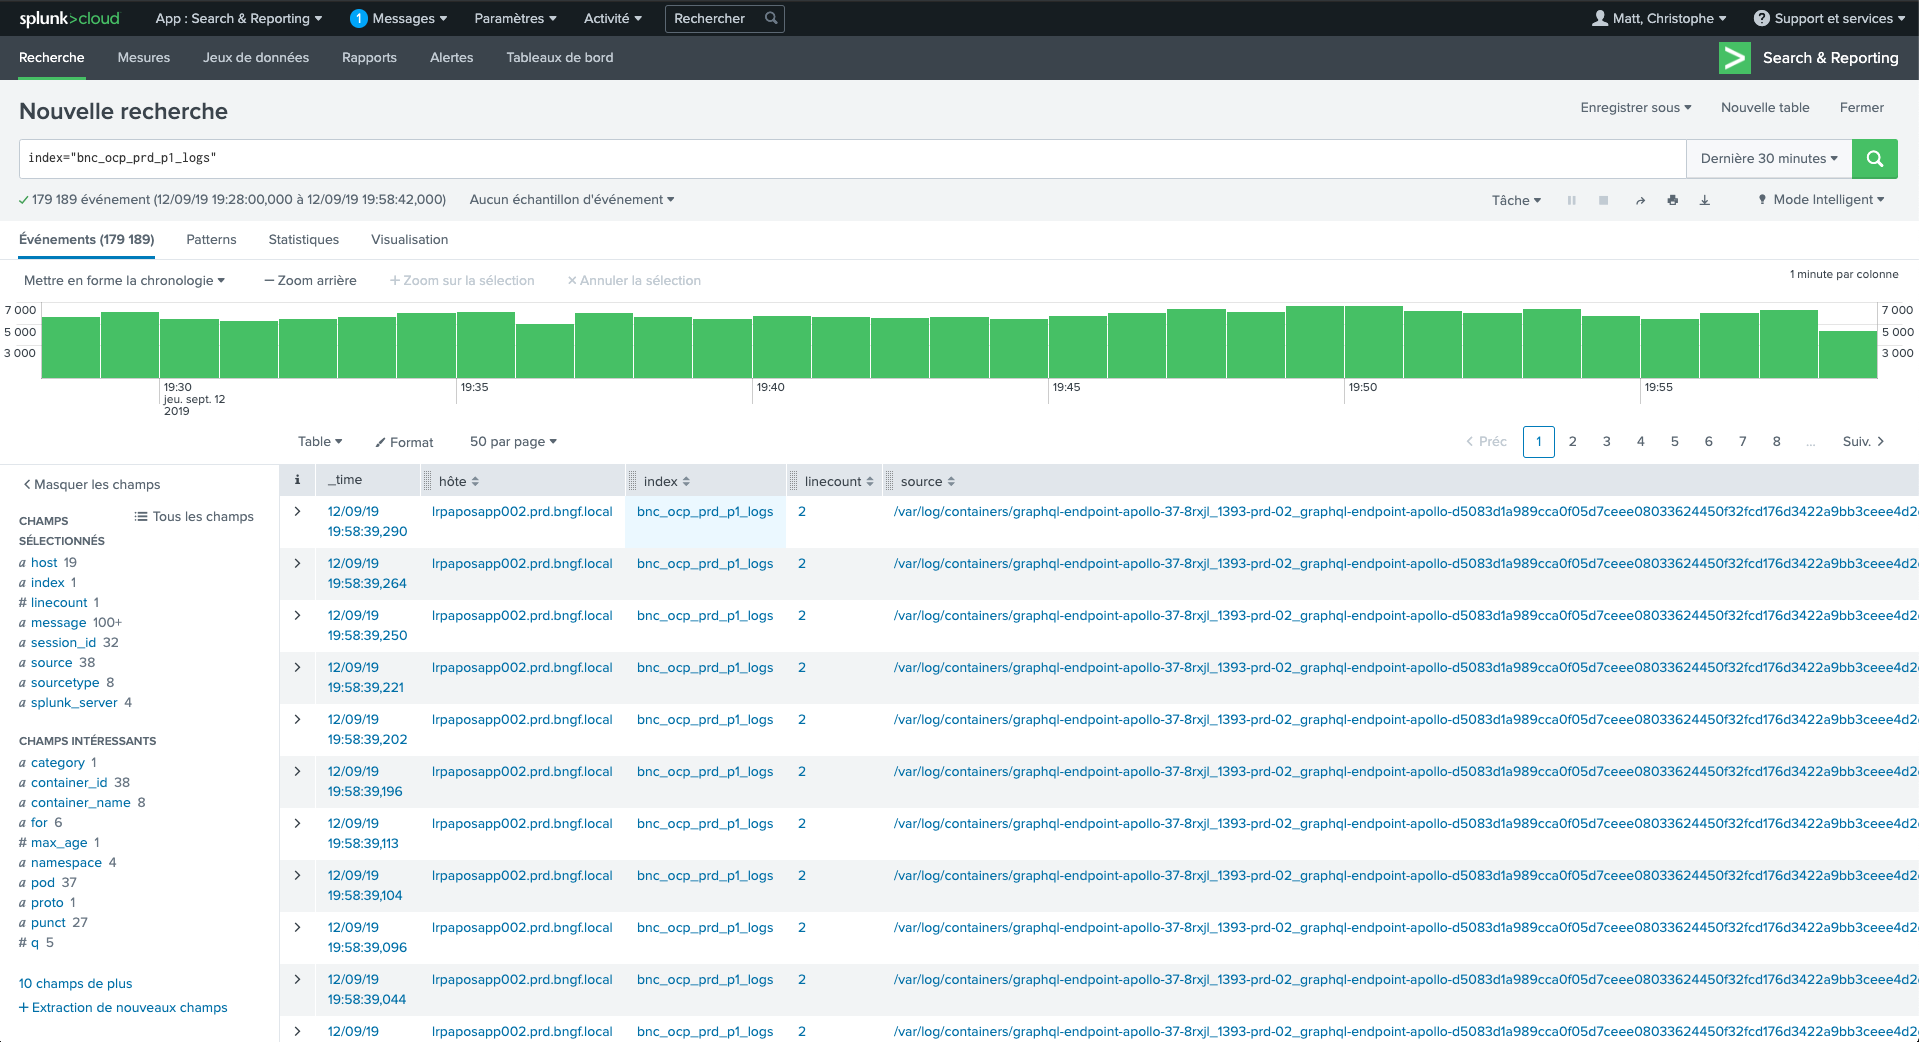
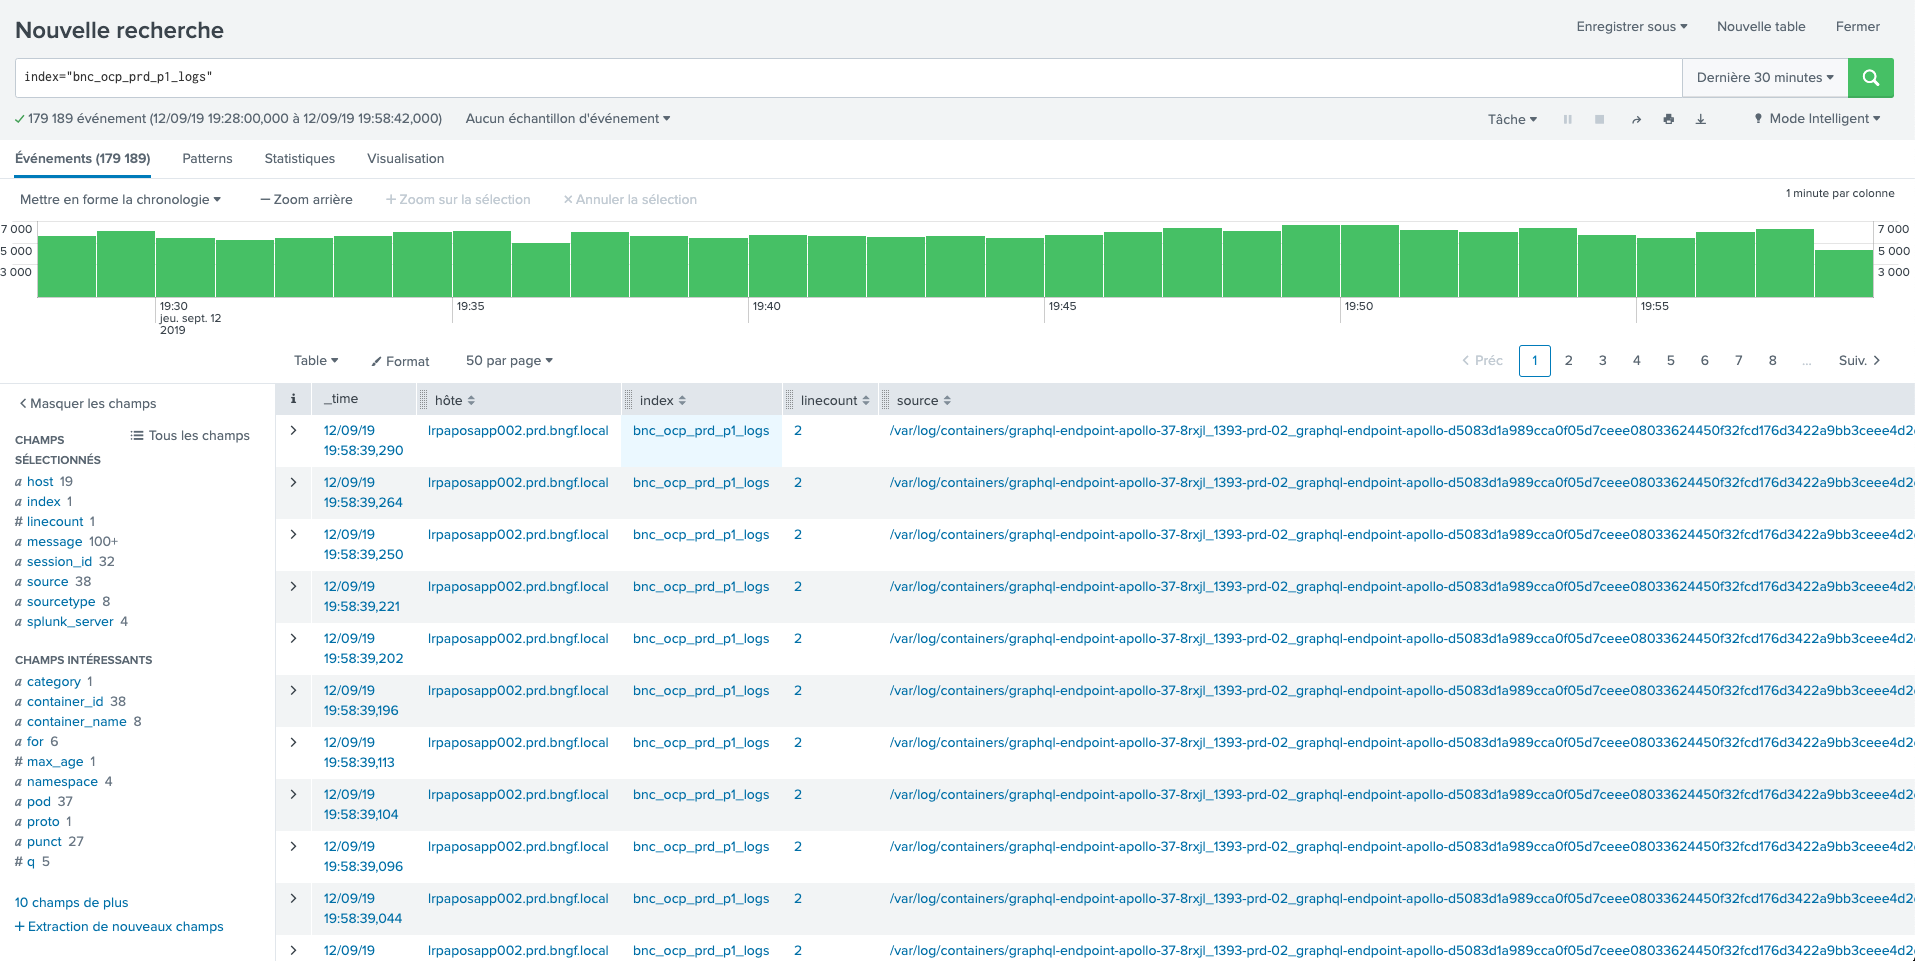
logs

diff --git a/index.html b/index.html
@@ -53,11 +53,17 @@
 						<div class=footer>
 							<div>
 								Christian Gosselin <br />
-								<a href="https://cgos.github.io/observability-presentation"> https://cgos.github.io/observability-presentation</a>
+								<a href="https://cgos.github.io/observability-presentation">
+									https://cgos.github.io/observability-presentation</a>
 							</div>
 						</div>
 					</small>
 				</p>
+				<aside class="notes">
+					<p>
+						Parlons Observability, comment nous pouvons mesurer la santé de nos systèmes
+					</p>
+				</aside>
 			</section>
 
 			<section style="text-align: left;">
@@ -71,7 +77,8 @@
 				</p>
 				<aside class="notes">
 					<p>
-						Tout le matériel de cette présentation vient principalement du contenu produit par
+						Premièrement, mea culpa, tout le matériel de cette présentation vient principalement du contenu
+						produit par
 						ces personnes
 					</p>
 				</aside>
@@ -80,6 +87,26 @@
 			<section>
 				<section style="vertical-align:text-top; width: 90%; height: 90%">
 					<img src="images/CNCF_TrailMap_top.png">
+
+					<aside class="notes">
+						<p>
+							Pourquoi parlé d'observablité? Le standard aujourd'hui consiste à produire des systèmes en
+							format containers. Juste la notion de
+							containerization représente un défi en soi:
+							<ul>
+								<li>quelle image</li>
+								<li>comment la construire</li>
+								<li>la taille</li>
+								<li>immutablity</li>
+							</ul>
+
+							la notion de container implique plusieurs considération de software design que nous devons
+							maitriser expliqué entre autre sur le site 12factor.net
+
+
+
+						</p>
+					</aside>
 				</section>
 				<section style="vertical-align:text-top; width: 90%; height: 90%">
 
@@ -189,29 +216,40 @@
 				<section data-background-color="rgba( 22, 152, 213, 0.6  )">
 					<h2 style="text-align: left;">Logs</h2>
 					<p>
-						<blockquote style="color:rgb(0, 247, 255); width: 95%">
-							An event log is an immutable, timestamped record of discrete events that happened over time.
+						<blockquote style="width: 85%">
+							<small>
+								<ul>
+									<li>Logs are the stream of aggregated, time-ordered events collected from the output
+										streams of all running processes.
+									<li>Logs in their raw form are typically a text format with one event
+										per line (exceptions may span multiple lines).
+									<li>Logs have no fixed beginning or end, but flow continuously as long as the app is
+										operating.
+								</ul>
+							</small>
 						</blockquote>
 						<small>
-							<sup class=superscript style="font-size: 50%">Ref: Cindy Sridharan<br>
+							<sup class=superscript style="font-size: 50%"><a
+									href="https://12factor.net/logs">https://12factor.net/logs</a>
 							</sup>
 						</small>
 					</p>
 				</section>
 				<section data-background="images/logs-wood.jpg" data-background-opacity="0.4">
-					<div style="float: left; width: 55%; margin-top: 1em">
-						<ul>
-							<li> Logs come in three different flavors: Plaintext, Structured (JSON format) or binary
-							<li> Trivial to generate
-							<li> Provide rich context information
-							<li> Expensive to process, move, store and query
-							<li> They are noisy
-						</ul>
-						<small>
-							<sup class=superscript style="font-size: 50%">Ref: Adrian Cole
-							</sup>
-						</small>
-					</div>
+					<small>
+						<p class="fragement">
+							<ul>
+								<li> Logs come in three different flavors: Plaintext, Structured (JSON format) or binary
+								<li> Trivial to generate
+								<li> Provide rich context information
+								<li> Expensive to process, move, store and query
+								<li> They are noisy
+								<li>An app should not attempt to write to or manage logfiles. Instead, each running
+									process
+									writes its event stream, unbuffered, to stdout.
+							</ul>
+						</p>
+					</small>
 				</section>
 				<section>
 					<h3>Instrumentation</h3>
@@ -239,10 +277,11 @@
 					</pre>
 				</section>
 
+
 				<section>
-					<h1>Presentation</h1>
-					<p>Screenshots</p>
+					<img src="images/splunk-logs.png" style="width: 300%;height: auto;">
 				</section>
+
 			</section>
 
 			<section>
@@ -321,6 +360,14 @@
 			<section>
 				<h1>Conclusion</h1>
 				<p></p>
+			</section>
+
+			<section style="text-align: left;">
+				<h2>Other references</h2>
+				<p>
+					- <a href="https://www.cncf.io">Cloud Native Computing Foundation</a><br>
+					- <a href="https://12factor.net">The Twelve Factor App</a> <br>
+				</p>
 			</section>
 
 			<section>
